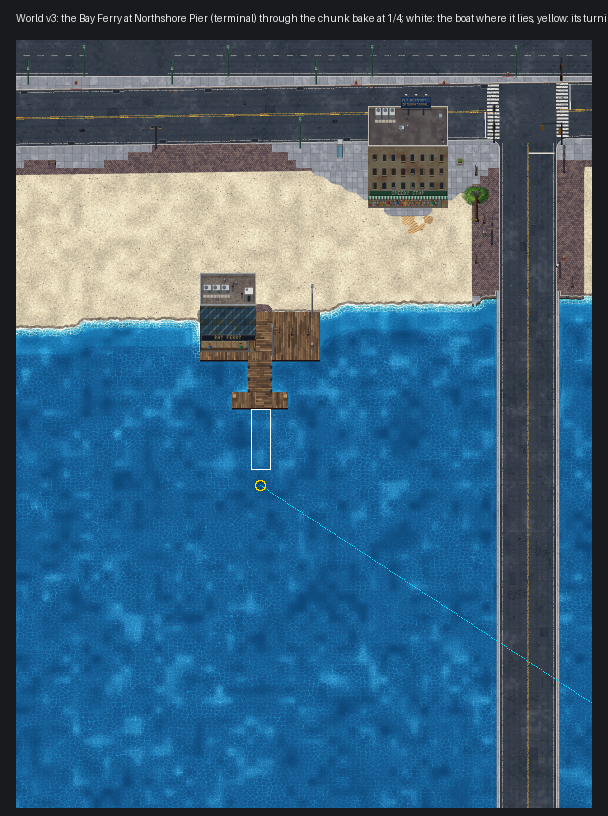
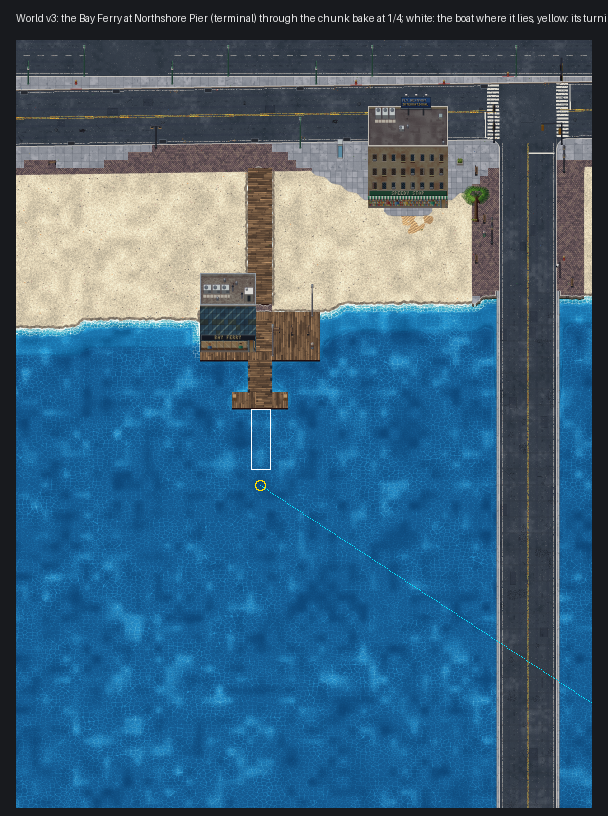
World v3 ferries: Northshore Pier's and Metro City Harbor's pictures with their boards ashore; 8.17 updated
Claude-Session: https://claude.ai/code/session_015TdwbASoLBxZr1VoEZGToX

Changed region(s): [[0.375, 0.1838, 0.4688, 0.3983]]

diff --git a/docs/WORLD-V3.md b/docs/WORLD-V3.md
@@ -3396,6 +3396,8 @@ it. What is built (tiles out from the shore tile):
   smaller lot (8 x 5) with no street needed (Gull Harbor's).
 - **A water bus stop:** a patch of boards ashore, a gangway (3 across, 3 out) to a pontoon (5 across, 2 out), a lamp, a
   bollard, mooring posts.
+- **The way ashore** (a terminal, a pontoon): boards 3 across straight back over the beach or the grass to the street,
+  the promenade or a path, when one is within 30 tiles.
 
 Each stop is listed in `m.world3.ferries` (`[{ name, model, car, loop, custody, stops: [{ name, kind, x, y, ox, oy,
 shore, land, building, pt }], hint }]`; `x, y` the pier's end where the boat's stern lies, `ox, oy` the way out,
@@ -3460,12 +3462,14 @@ Gull Harbor a lot off the island's ring road. What's wrong:
   booth window aren't drawn) and the booth reads as a small house.
 - **Metro City Harbor's deck is close under the bridges:** its south edge 2-3 tiles from the road bridge's deck - the
   nearest shore to the skeleton's point with room; a few tiles north would read better.
-- **Northshore Pier stands on the beach**, 20-odd tiles of sand from the street: no path or boardwalk leads to it.
+- **Northshore Pier stood on the beach**, 20-odd tiles of sand from the street with no way to it: a terminal or a
+  pontoon now gets boards (3 across) straight back over the sand or the grass to the street, the promenade or a path
+  when one is within 30 tiles (`-northshore-pier.png` and `-metro-city-harbor.png` are drawn with them).
 - **The boats aren't in the bake** (they are vehicles): the white outline is where the boat lies.
 - **Gull Harbor's lot** sits beside the ring road's sidewalk with no drive of its own (the relaxed spec: no street
   needed within reach); cars cross the kerb to it.
 
-**What's left:** the terminal and ramp models (FE1, FE2); a boardwalk from the street to Northshore Pier; the Prison
+**What's left:** the terminal and ramp models (FE1, FE2); the Prison
 Boat as the arrests system's transport, once prisoners go to the island; the lift bridges opening for tall boats (the
 boats pass under every deck today). The Transit app (`client/phone.js`) lists every stop of a route of many by its
 own name with its time (`ferryInfo`'s `stops`, `piers`, `leaves`) and leaves the Prison Boat out.
